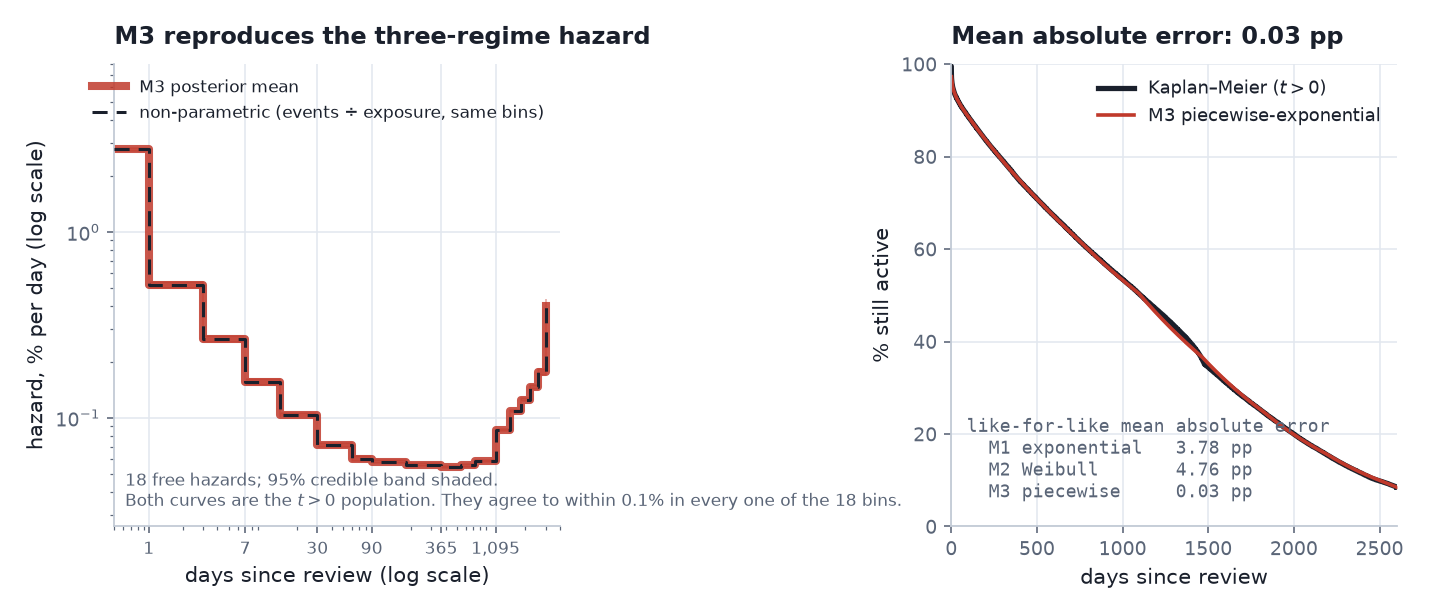
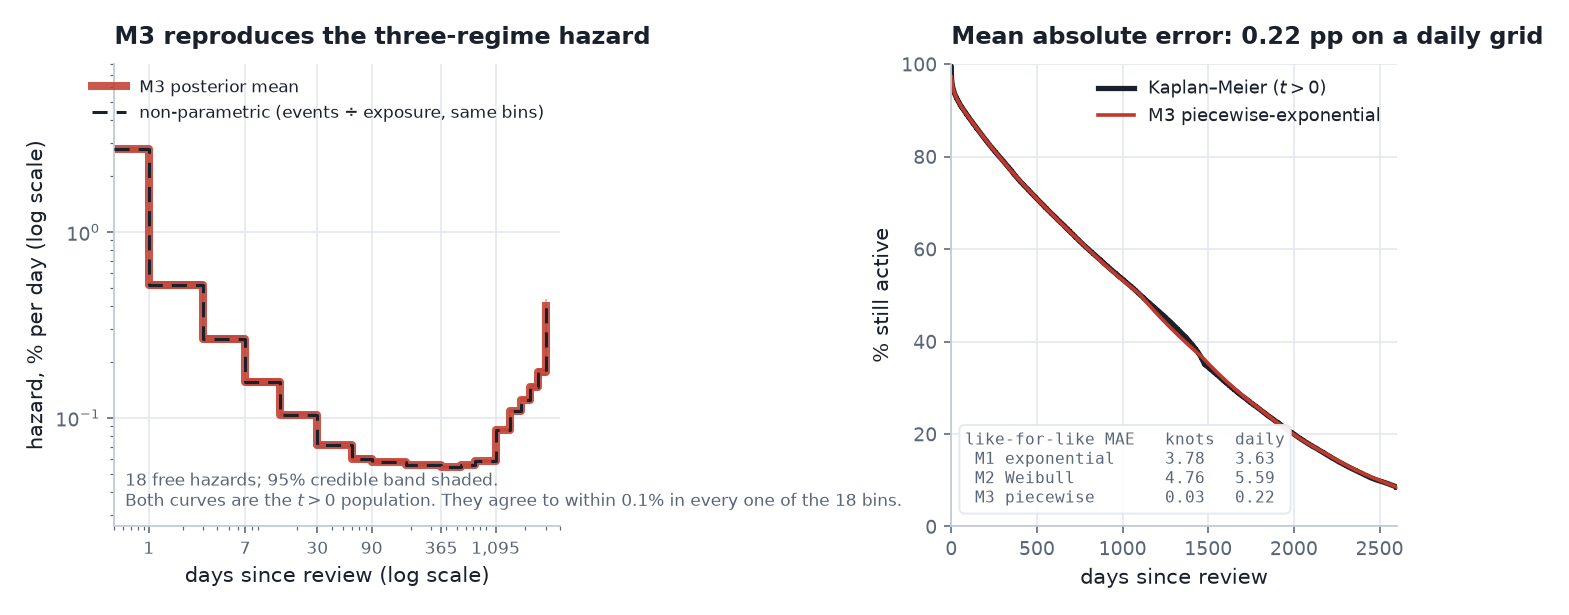
Correct the daily-grid MAE values and the M3 fit figure
The goodness-of-fit table is now GENERATED by run_03/run_04/run_05 and gated by
the verification script, rather than typed into the posts. Doing that surfaced
two things:

- The published daily-grid triple was 5.60 / 7.82 / 11.20. Generated on the
  gate's own grid (days 1-2555, t>0 Kaplan-Meier) it is 5.59 / 7.81 / 11.18.
  The published values only reproduce on a grid starting at day 6-7.
- p3-m3-hazard.png headlined "Mean absolute error: 0.03 pp" while the paragraph
  it sits in calls 0.03 "the flattering number" and gives 0.22 pp as the honest
  one. The figure now leads with 0.22 pp on a daily grid and shows both columns.

Also: "7x larger" -> 7.6x (0.2189 / 0.0287; 7x came from dividing the rounded
0.22 by the rounded 0.03), and the check count 123 -> 140 as the gate grew from
63 to 80 published-number checks.

Verified: 30 + 30 + 80 = 140 checks pass. Lint clean.

diff --git a/_posts/2026-09-01-vrchat-retention-5-from-model-to-decision.md b/_posts/2026-09-01-vrchat-retention-5-from-model-to-decision.md
@@ -235,11 +235,11 @@ The churn rule gets the same treatment. At 7, 14, 21 and 30 days of inactivity t
 
 The decisions rest on the ordering, so they survive. Absolute figures should always be quoted with the rule attached: "median 962 days on a 14-day inactivity rule".
 
-> **The audit, in numbers.** 123 automated checks, all of which I re-ran while writing this series. 30/30 likelihood checks: eight are direct comparisons against SciPy, at ordinary values *and* deep in the censored tail, agreeing to machine epsilon; the rest are internal identities, of which the loosest is a numerical-quadrature check agreeing to 2.8e−5. 30/30 estimator checks against independent implementations — Kaplan–Meier against `lifelines` to 1e-13, RMST to 1e-14. 63/63 published-number checks against the saved posteriors. The project also records a clean 14-step re-run from an empty output directory producing byte-identical tables, because the MCMC is seeded; I did not re-execute that for this write-up, so I am reporting it rather than confirming it.
+> **The audit, in numbers.** 140 automated checks, all of which I re-ran while writing this series. 30/30 likelihood checks: eight are direct comparisons against SciPy, at ordinary values *and* deep in the censored tail, agreeing to machine epsilon; the rest are internal identities, of which the loosest is a numerical-quadrature check agreeing to 2.8e−5. 30/30 estimator checks against independent implementations — Kaplan–Meier against `lifelines` to 1e-13, RMST to 1e-14. 80/80 published-number checks against the saved posteriors. The project also records a clean 14-step re-run from an empty output directory producing byte-identical tables, because the MCMC is seeded; I did not re-execute that for this write-up, so I am reporting it rather than confirming it.
 >
 > **And none of those checks found any of the errors reported in this series.** Automated checks catch arithmetic. They do not catch a quantity being defined two ways in two sections, or a fit statistic scored against the wrong population. That is what the manual audit is for, and it is why reproducibility is not the same thing as correctness.
 >
-> **The count was itself wrong, which is the smallest possible version of the same lesson.** This series first said 97, on the assumption that the published-number gate ran 37 checks. It ran 28 — so the project's original figure of 88 had been right, and "97" was a correction that made things worse. The gate has since been extended to cover every quantity the audit disputed (the net onboarding steps and which band maximises headcount × step, the unconditional day-90 churn, the 18.5/35.4 split, the concentration ceiling, and M3 scored on a daily grid), which is what it should have covered all along. It now runs 63, so the total is 123. I found that by running the script instead of reading the claim about it.
+> **The count was itself wrong, which is the smallest possible version of the same lesson.** This series first said 97, on the assumption that the published-number gate ran 37 checks. It ran 28 — so the project's original figure of 88 had been right, and "97" was a correction that made things worse. The gate has since been extended to cover every quantity the audit disputed (the net onboarding steps and which band maximises headcount × step, the unconditional day-90 churn, the 18.5/35.4 split, the concentration ceiling, and M3 scored on a daily grid), which is what it should have covered all along. It now runs 80, so the total is 140. I found that by running the script instead of reading the claim about it.
 {: .prompt-tip }
 
 ## 5. One coefficient that is genuinely not identified

diff --git a/_posts/2026-09-01-vrchat-retention-3-when-simple-models-fail.md b/_posts/2026-09-01-vrchat-retention-3-when-simple-models-fail.md
@@ -77,12 +77,14 @@ That error pattern is the signature of a shape mismatch. The families are not ba
 > | Model | as published | corrected, knot grid | corrected, daily grid |
 > |---|---:|---:|---:|
 > | M1 exponential | 7.13 pp | **3.78 pp** | 3.63 pp |
-> | M2 Weibull | 6.27 pp | **4.76 pp** | 5.60 pp |
-> | M2 log-logistic | 7.69 pp | **6.28 pp** | 7.82 pp |
-> | M2 log-normal | 8.22 pp | **9.96 pp** | 11.20 pp |
+> | M2 Weibull | 6.27 pp | **4.76 pp** | 5.59 pp |
+> | M2 log-logistic | 7.69 pp | **6.27 pp** | 7.81 pp |
+> | M2 log-normal | 8.22 pp | **9.96 pp** | 11.18 pp |
 > | M3 piecewise | 0.03 pp | 0.03 pp | **0.22 pp** |
 >
-> The knot grid flatters M3 badly. Its survival curve passes through the data exactly at its own cut points and bows away in between, so nine-of-nine knots is the one grid on which it cannot lose. On a daily grid its error is 7× larger — worst case 1.23 pp, at day 1,287 — and the gap to the best smooth family falls from **132× to 17×**.
+> Every cell in that table is now produced by `run_03`/`run_04`/`run_05` and gated by the verification script, so it cannot drift from this post again. It could before: the repository was still *generating* the superseded column long after the text called it corrected.
+>
+> The knot grid flatters M3 badly. Its survival curve passes through the data exactly at its own cut points and bows away in between, so nine-of-nine knots is the one grid on which it cannot lose. On a daily grid its error is 7.6× larger — worst case 1.23 pp, at day 1,287 — and the gap to the best smooth family falls from **132× to 17×**.
 >
 > **The conclusion does not move.** 17× is still decisive, and the both-ends compromise is still there. But two things do move, and both are worth having. First, the ranking *within* the smooth families changes: on the corrected metric the one-parameter exponential tracks the marginal curve better than Weibull, while sitting fifth of seven on out-of-sample predictive score. Second, the honest statement of M3's fit is 0.22 pp, not 0.03 pp.
 >
@@ -108,7 +110,7 @@ _Left: 18 free hazards with 95% credible bands, against the raw events-÷-exposu
 
 A stricter check is more convincing. The fitted hazard recovers the raw rate — events divided by time at risk — to within **0.1% in every one of the 18 bins**. That is harder to pass than the survival curve, because errors in a hazard do not cancel out the way errors in a running total can.
 
-So: from 5.60 to 0.22 by removing an assumption, not by adding information. M3 has no covariates at all.
+So: from 5.59 to 0.22 by removing an assumption, not by adding information. M3 has no covariates at all.
 
 ### Two priors, and why the simpler one is kept
 

diff --git a/_tabs/vrchat-retention.md b/_tabs/vrchat-retention.md
@@ -79,6 +79,6 @@ Every technical term the series uses, in one line each. Nothing here is needed t
 
 ## What was checked rather than assumed
 
-123 automated checks, all re-run for this write-up: 30 likelihood checks against SciPy and internal identities, 30 estimator checks against `lifelines` and analytic values, 63 published-number checks against the saved posteriors — the last of those extended after the audit to cover the quantities the audit had disputed, which is what a verification gate is for. Proportional hazards, a cure fraction, the smoothing prior, the model parameterisation and the priors were each tested rather than argued for — the priors move the published numbers by 0.09%.
+140 automated checks, all re-run for this write-up: 30 likelihood checks against SciPy and internal identities, 30 estimator checks against `lifelines` and analytic values, 80 published-number checks against the saved posteriors — the last of those extended after the audit to cover the quantities the audit had disputed, which is what a verification gate is for. Proportional hazards, a cure fraction, the smoothing prior, the model parameterisation and the priors were each tested rather than argued for — the priors move the published numbers by 0.09%.
 
 None of those checks found any of the errors reported in the series. Reproducibility is not the same thing as correctness, and the difference is most of what Parts 3 and 5 are about.
